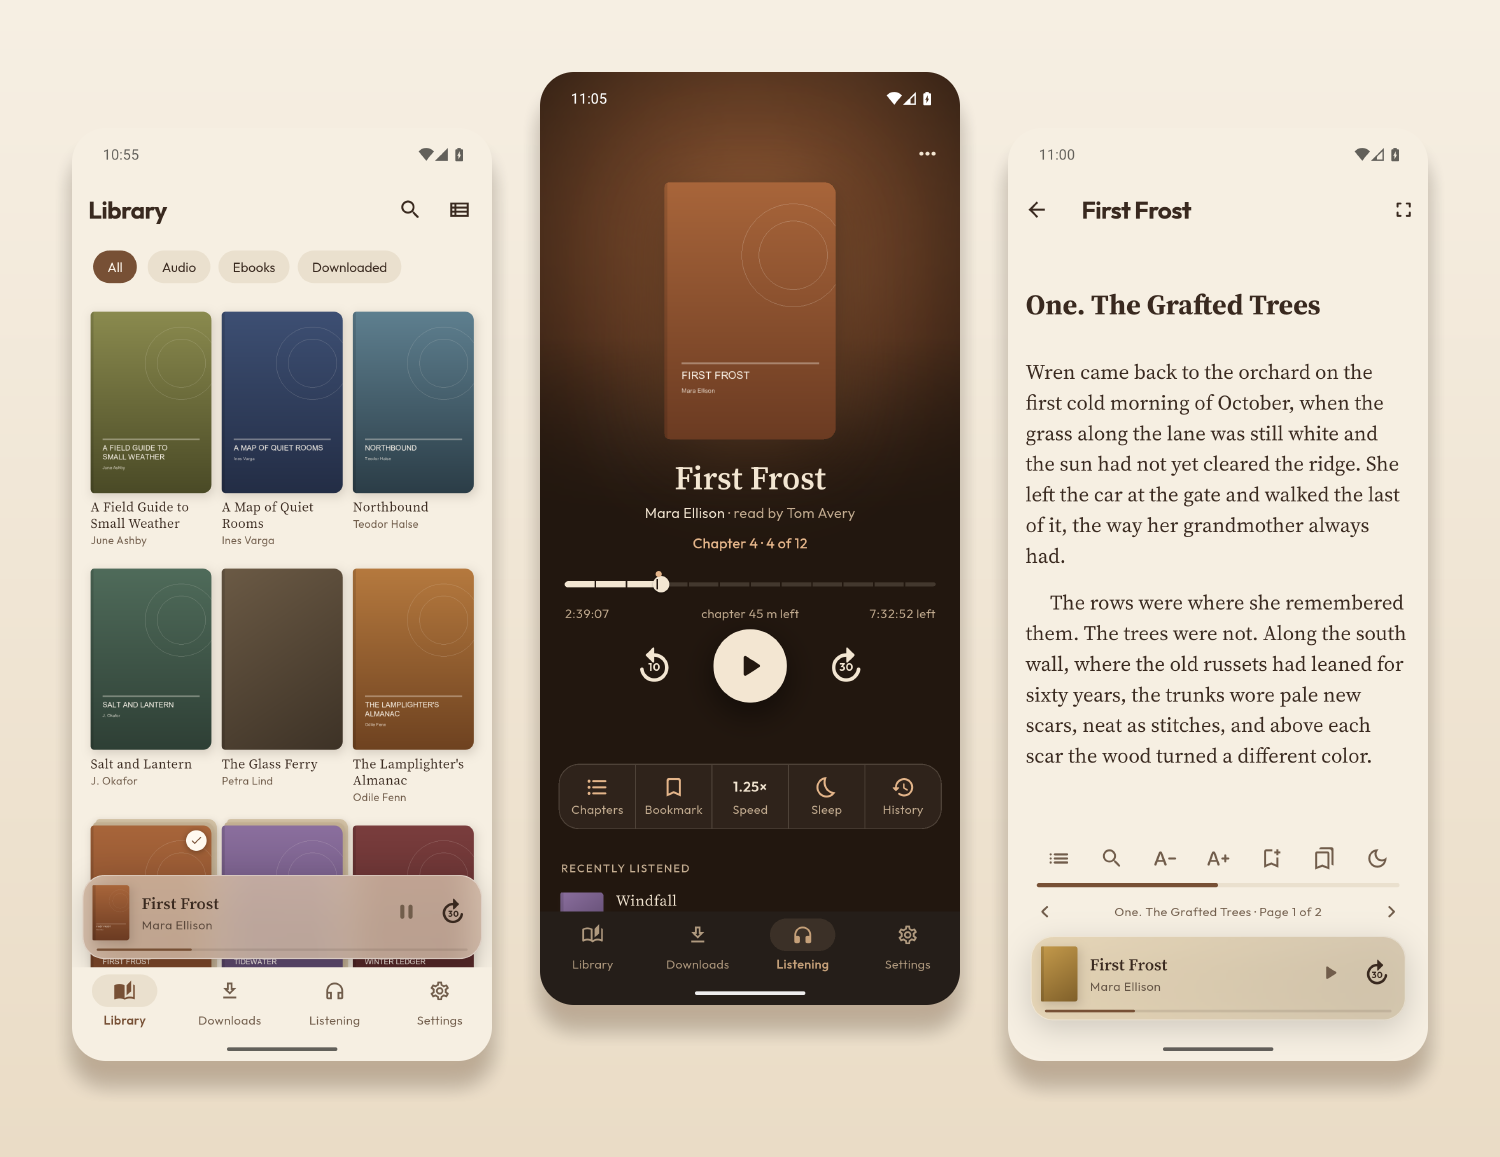
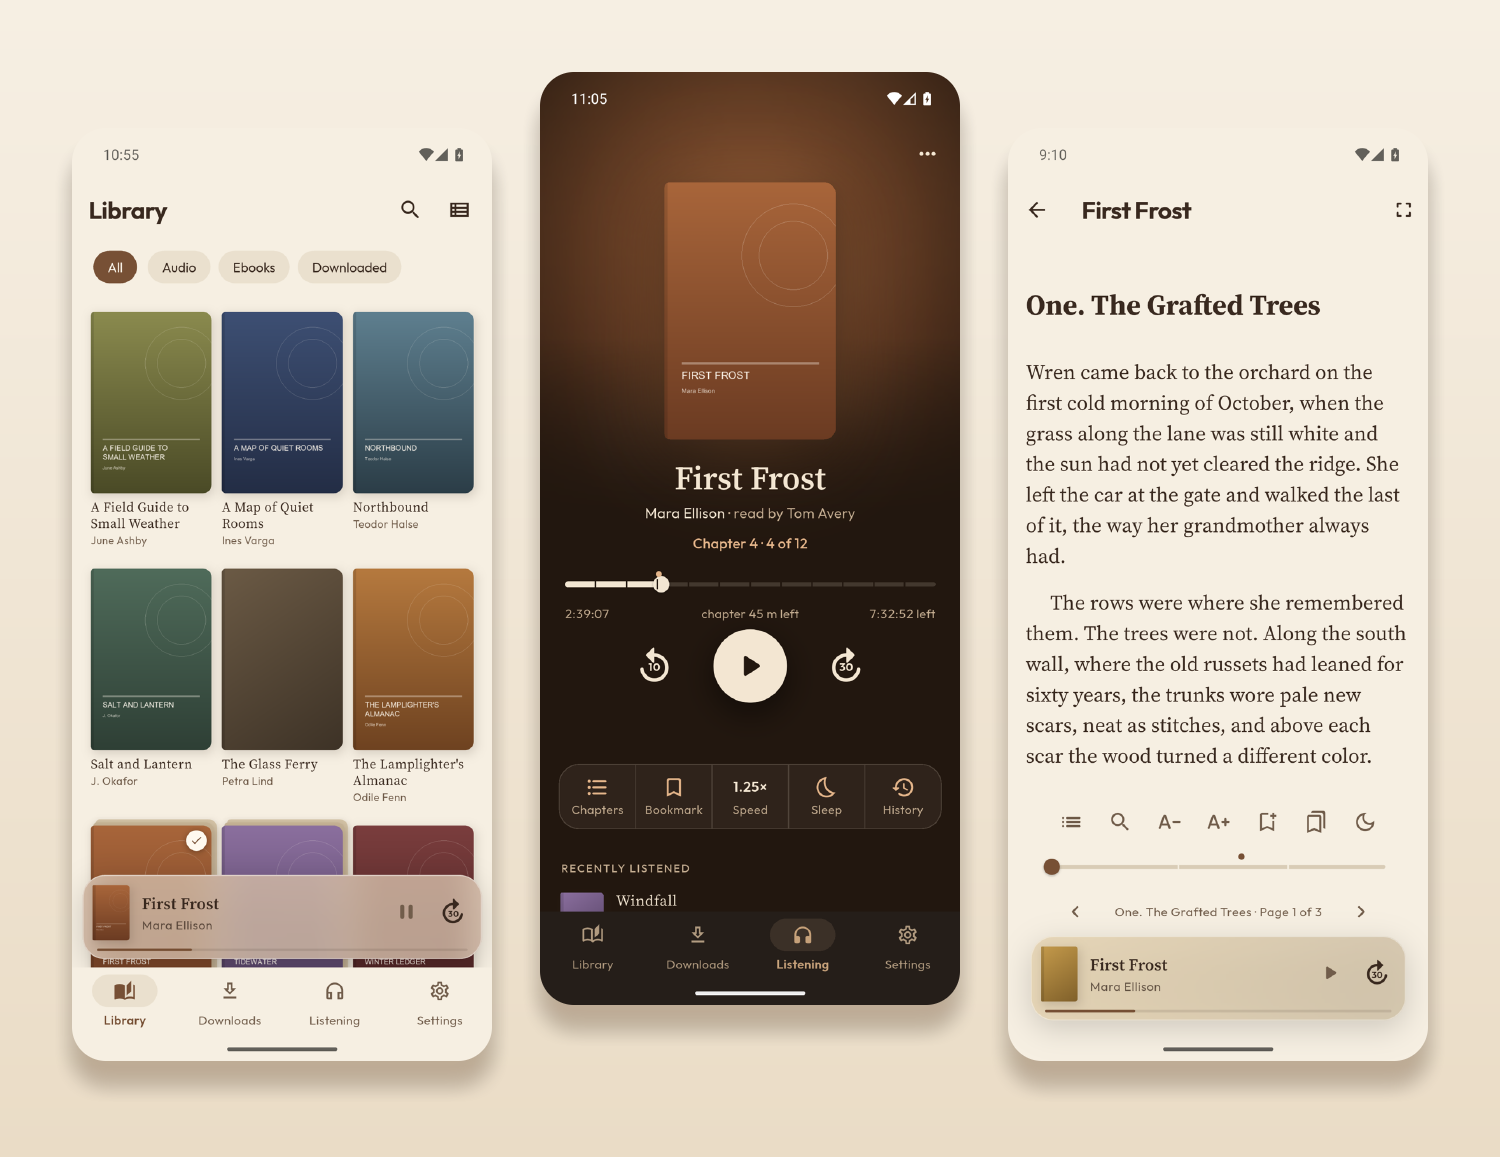
Show the reader's scrub bar in the README screenshots
The EPUB, PDF and reflow screenshots and the hero image now show the new
bar, with a bookmark in each book. They come from emulator-5554 at 720 by
1600, with the made-up library of the showcase fixture. The README says
how to drag the bar. The screenshot of a page under recognition still shows
the old bar (t4-ci4z). The player's thumb near the screen edge gets its
own ticket (t4-usbz).

Changed region(s): [[0.6747, 0.6845, 0.92, 0.7779], [0.0613, 0.4356, 0.1227, 0.4667], [0.0613, 0.6534, 0.092, 0.6845]]

diff --git a/README.md b/README.md
@@ -93,14 +93,15 @@ The library in them is made-up test data from `tool/showcase_fixture.dart`.
 ### Read EPUB, MOBI and PDF
 
 <p align="center">
-  <img src="docs/screenshots/reader-epub.png" alt="An EPUB book open in the reader" width="195">
+  <img src="docs/screenshots/reader-epub.png" alt="An EPUB book open in the reader, with the scrub bar that marks chapters and a bookmark" width="195">
   <img src="docs/screenshots/reader-recognizing.png" alt="A scanned PDF page dimmed under a card that says Recognizing English text" width="195">
-  <img src="docs/screenshots/reader-pdf.png" alt="The scanned PDF page in the reader, with the Reflow text button in the bottom bar" width="195">
+  <img src="docs/screenshots/reader-pdf.png" alt="The scanned PDF page in the reader, with the Reflow text button and the scrub bar with a bookmark on page 2" width="195">
   <img src="docs/screenshots/reader-reflow.png" alt="The same scanned page as reflowed text after OCR" width="195">
 </p>
 
 - The reader opens EPUB, unencrypted MOBI, and PDF files.
 - It has contents, search, text size, bookmarks, and a saved place for each book.
+- Drag the bar under the page to move through the whole book. It marks each chapter and each bookmark, and it names the place while you drag.
 - Reading is immersive. A tap shows the controls, and another tap hides them.
 - A PDF can show its original pages, or its text reflowed to the width of the phone. One button in the bottom bar switches between the two views.
 - For scanned pages, Bookfin recognizes the text on the phone with Tesseract (English only). OCR (optical character recognition) needs no network.

diff --git a/.tickets/t4-usbz.md b/.tickets/t4-usbz.md
@@ -1,0 +1,15 @@
+---
+id: t4-usbz
+status: open
+deps: []
+links: []
+created: 2026-11-08T14:11:18Z
+type: bug
+priority: 2
+assignee: Alexis Purslane
+parent: boo-fs0n
+---
+# Keep the player's position thumb out of Android's edge gesture zone
+
+Found during boo-315o on emulator-5554: Android's back gesture zone is 78 px (30 points) at each edge. The reader's scrub bar now keeps the system gesture insets clear (lib/reader/screen.dart ReaderScrubBar). The player's PositionSlider sits 24 points inside its pane, so its thumb at the start or end of an edition is about 32 points from the screen edge, half inside the zone with its 8-point radius. Check on the emulator whether a drag from the thumb at 0 opens Back, and if so pad the player bar by MediaQuery.systemGestureInsets like the reader does. lib/playback is shared with boo-spjd.
+

diff --git a/.tickets/t4-ci4z.md b/.tickets/t4-ci4z.md
@@ -1,0 +1,15 @@
+---
+id: t4-ci4z
+status: open
+deps: []
+links: []
+created: 2026-11-08T14:11:18Z
+type: task
+priority: 3
+assignee: Alexis Purslane
+parent: boo-fs0n
+---
+# Retake the README screenshot of a PDF page under recognition with the scrub bar
+
+docs/screenshots/reader-recognizing.png still shows the old reader progress bar after boo-315o. The emulator's OCR cache already holds the Windfall page, so the Recognizing English text card no longer shows. Retake it at 720 by 1600 on emulator-5554 with a fresh OCR cache, and make sure that no personal data shows.
+
